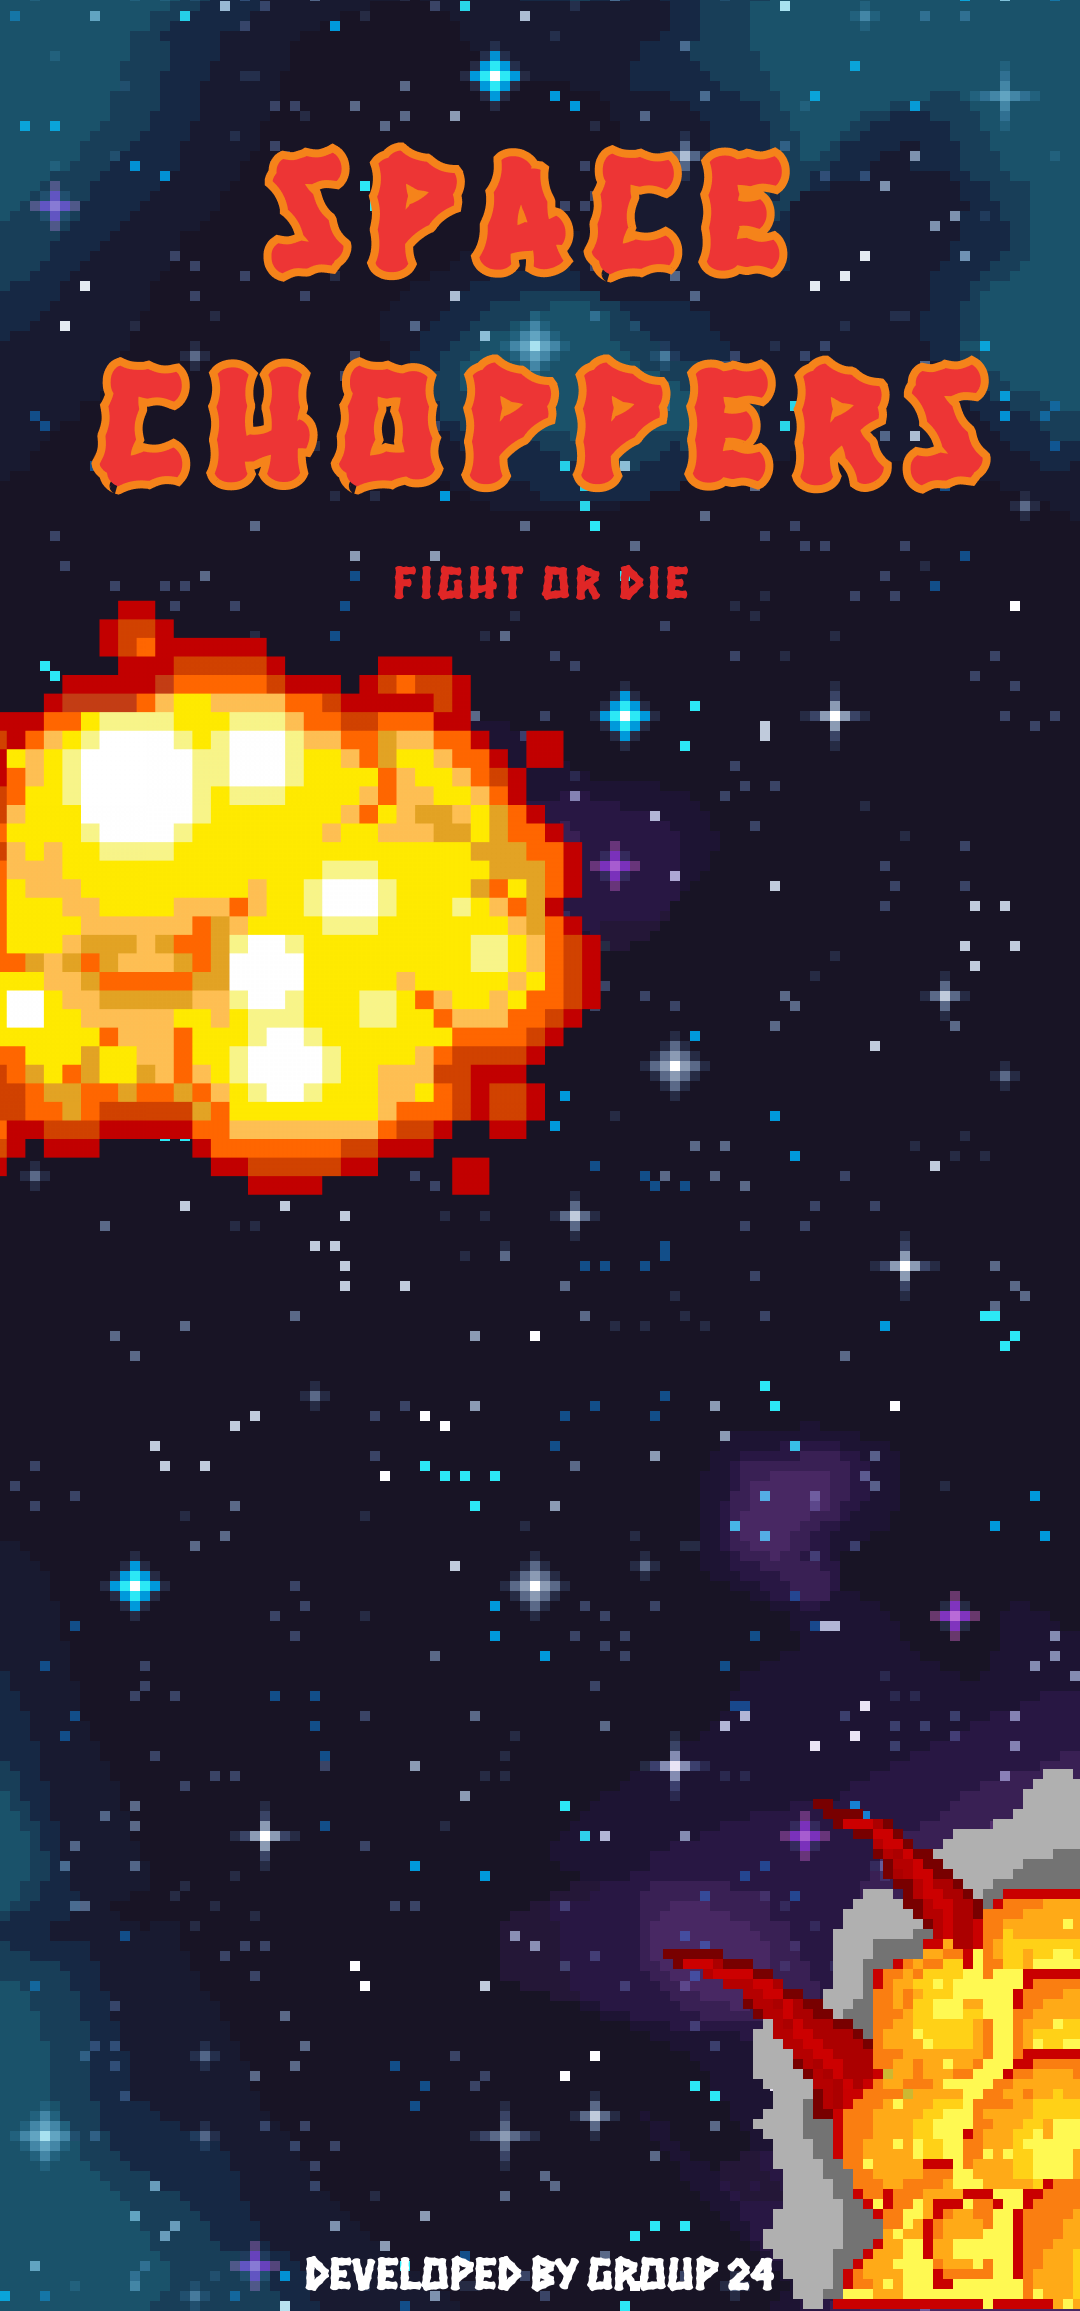
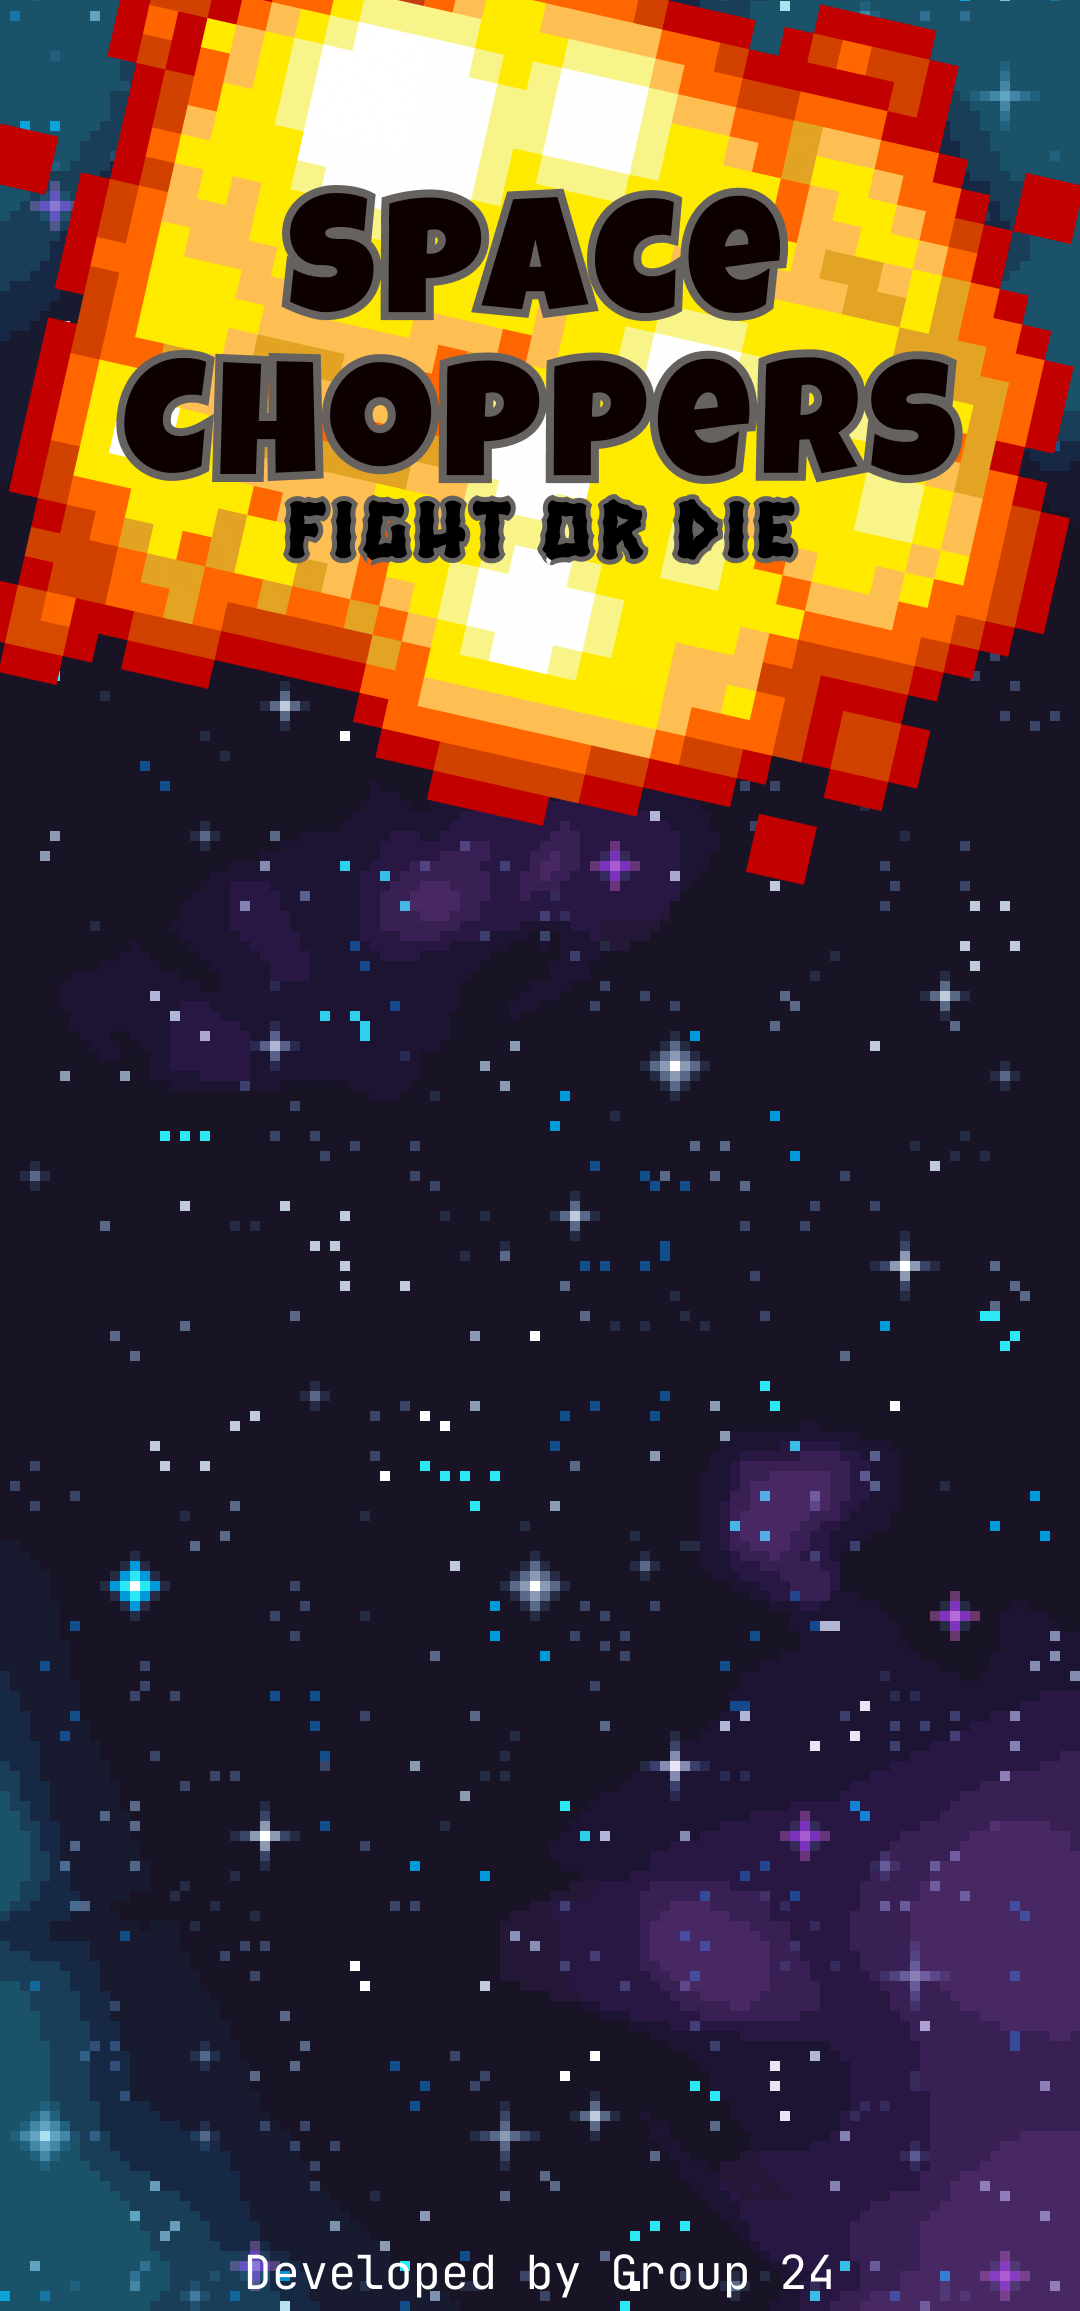
Add asteroids to bg and update background

diff --git a/SpaceChoppers/core/src/com/mygdx/spacechoppers/gamestates/menu/MenuBase.kt b/SpaceChoppers/core/src/com/mygdx/spacechoppers/gamestates/menu/MenuBase.kt
@@ -10,8 +10,12 @@ import com.mygdx.spacechoppers.AssetManager
 import com.mygdx.spacechoppers.GameState
 import com.mygdx.spacechoppers.GameStateManager
 import com.mygdx.spacechoppers.SpaceChoppersGame
+import com.mygdx.spacechoppers.controller.AsteroidController
+import com.mygdx.spacechoppers.factories.AsteroidFactory
+import com.mygdx.spacechoppers.model.AsteroidTextures
 import com.mygdx.spacechoppers.utils.MenuCommon
 import kotlin.math.min
+import kotlin.random.Random
 
 abstract class MenuBase(gsm: GameStateManager) : GameState(gsm) {
     protected val stage = Stage(FitViewport(cam.viewportWidth, cam.viewportHeight), sb)
@@ -20,11 +24,30 @@ abstract class MenuBase(gsm: GameStateManager) : GameState(gsm) {
         AssetManager.manager.get("menu_bg_clean.png", Texture::class.java)
     )
 
+    // Asteroids
+    private val asteroidFactory = AsteroidFactory(sb, AsteroidTextures())
+    private val asteroids = ArrayList<AsteroidController>()
+
     init {
         Gdx.input.inputProcessor = stage
+        createAsteroids(3)
     }
 
-    override fun update(dt: Float) {}
+    private fun createAsteroids(num: Int) {
+        for (i in 0..num) {
+            asteroids.add(asteroidFactory.create())
+        }
+    }
+
+    override fun update(dt: Float) {
+
+        if (asteroids.all { a: AsteroidController -> a.model.isOutOfBounds }) {
+            asteroids.clear()
+            createAsteroids(Random.nextInt(5)) // TODO: Dynamic number
+        }
+
+        asteroids.forEach { asteroidController: AsteroidController -> asteroidController.moveAsteroid() }
+    }
 
     override fun render(delta: Float) {
         Gdx.gl.glClearColor(0f, 0f, 0f, 1f)
@@ -32,6 +55,7 @@ abstract class MenuBase(gsm: GameStateManager) : GameState(gsm) {
 
         sb.begin()
         sb.draw(background, 0f, 0f)
+        asteroids.forEach{ asteroid: AsteroidController -> asteroid.draw() }
         sb.end()
 
         stage.act(min(delta, 1 / 30f))
